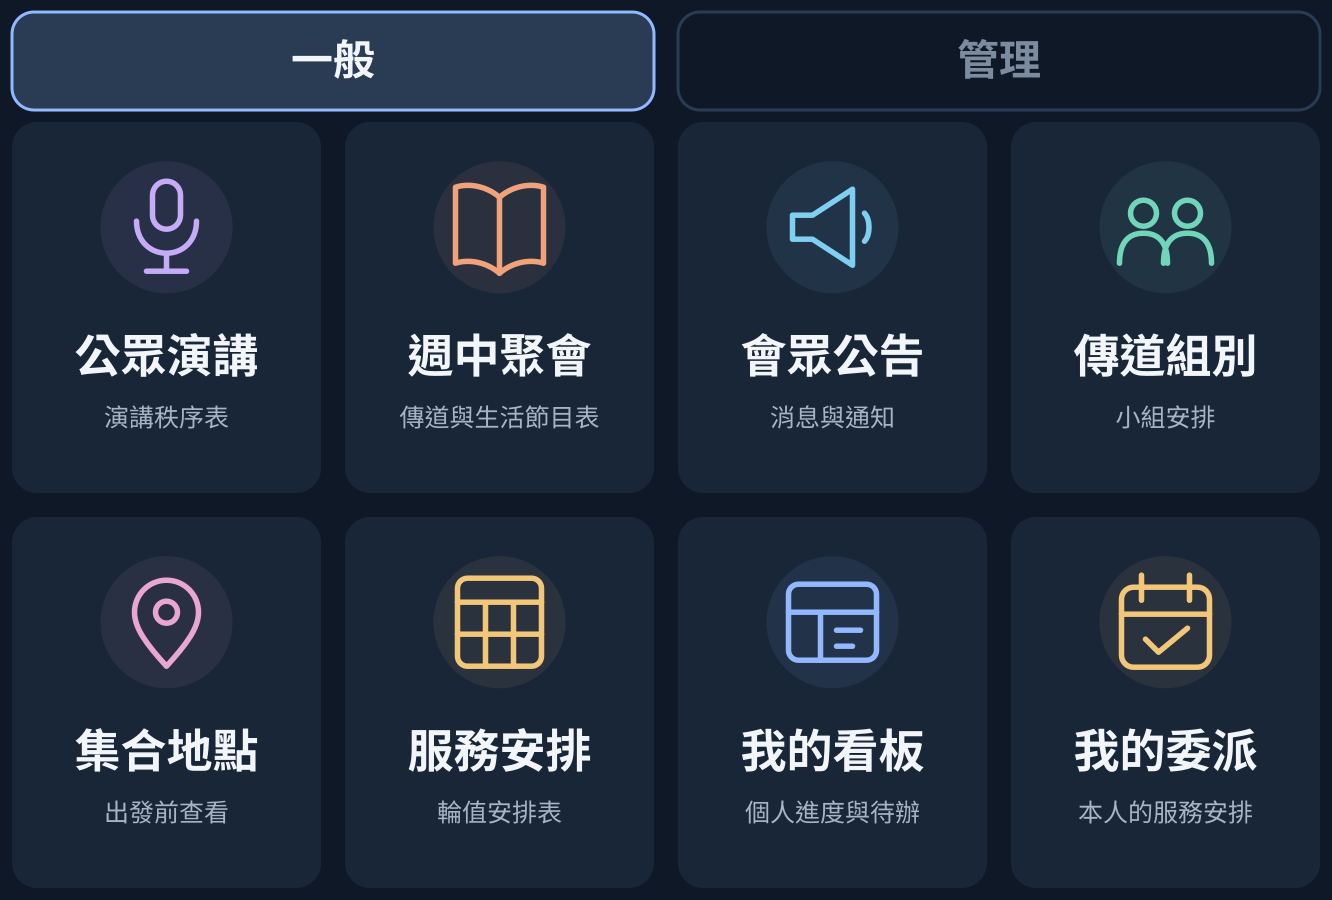
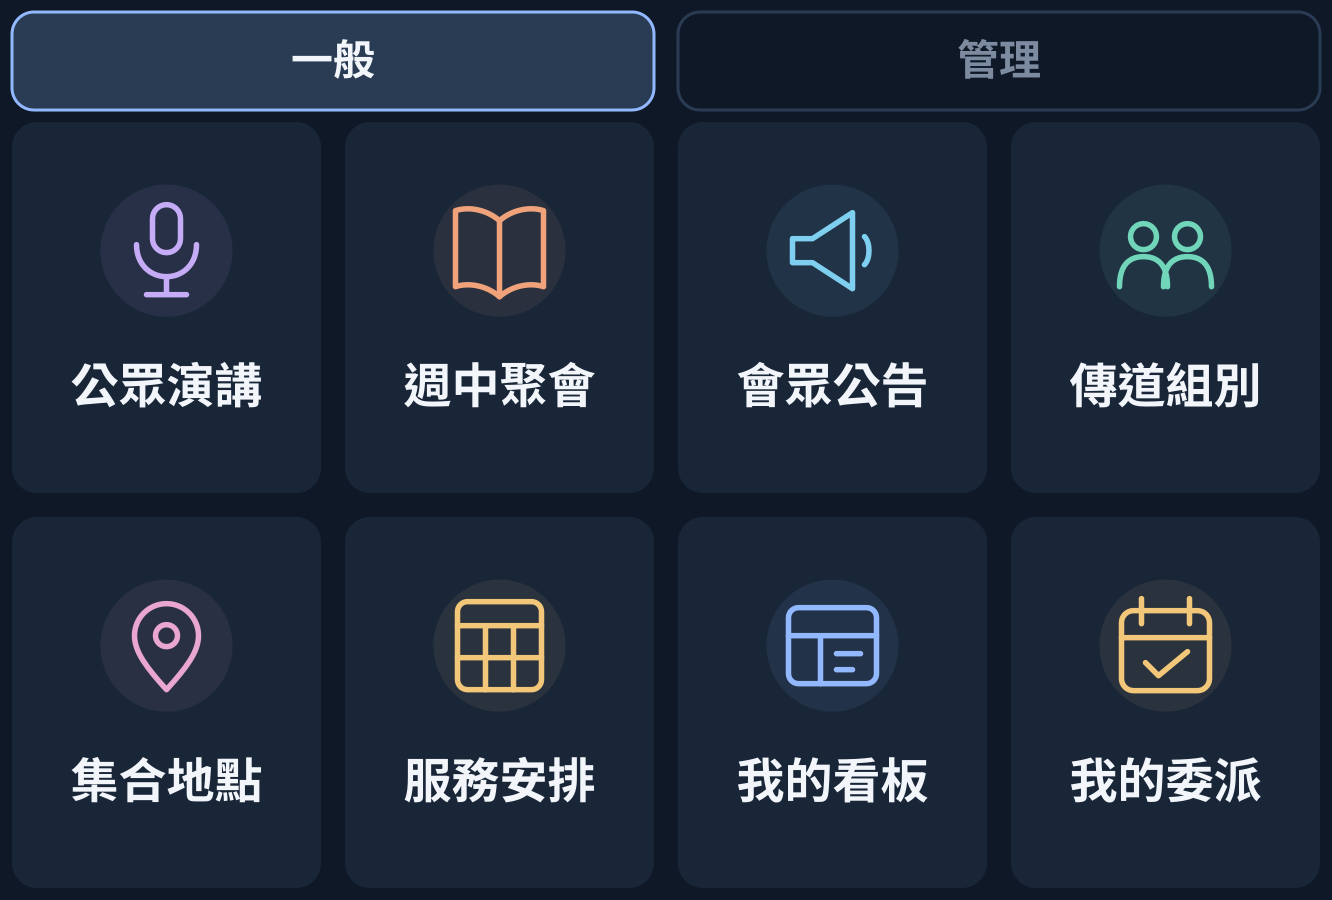
ui: LINE 圖文選單拿掉副標題，只留圖示與主標題，升 v12（ADR-0133）

diff --git a/src/lib/line-rich-menu.ts b/src/lib/line-rich-menu.ts
@@ -12,9 +12,9 @@ export type MenuKey = 'sister' | 'brother-general' | 'brother-manage' | 'admin-g
 export const menuKeys: MenuKey[] = ['sister', 'brother-general', 'brother-manage', 'admin-general', 'admin-manage']
 const tabbedKeys = menuKeys.filter(key => key !== 'sister') as Exclude<MenuKey, 'sister'>[]
 const liffId = configuredLiffId()
-const stateKey = (key: MenuKey) => liffId ? `line_rich_menu_v11_${key}_liff_${liffId}` : `line_rich_menu_v11_${key}`
+const stateKey = (key: MenuKey) => liffId ? `line_rich_menu_v12_${key}_liff_${liffId}` : `line_rich_menu_v12_${key}`
 // Alias ids are per channel: [a-z0-9_-], at most 32 characters.
-export const aliasId = (key: MenuKey) => `cms-v11-${key}`
+export const aliasId = (key: MenuKey) => `cms-v12-${key}`
 const menuUrl = (view: string) => liffId ? `https://liff.line.me/${liffId}/?view=${view}` : `${botSite}${liffDestination(view)}`
 const lockKey = 'line_rich_menu_publish_lock'
 const api = 'https://api.line.me/v2/bot'
@@ -46,7 +46,7 @@ function definition(key: MenuKey) {
   })) : []
   return {
     size: { width, height }, selected: true,
-    name: `楠梓會眾${label}選單 v11`, chatBarText: '開啟功能選單',
+    name: `楠梓會眾${label}選單 v12`, chatBarText: '開啟功能選單',
     areas: [...tabAreas, ...rows.flatMap((keys, row) => {
       const cell = Math.floor(width / keys.length), y = top + row * rowH
       return keys.map((name, i) => ({

diff --git a/CONTEXT.md b/CONTEXT.md
@@ -1,5 +1,6 @@
 # 地圖分配系統 — 領域詞彙表
 
+- 2026-11-15：使用者要求 LINE 圖文選單圖片不要有副標題。各頁每格只留圖示與主標題。選單升 v12 需重新發布。詳見 ADR-0133。
 - 2026-11-15：使用者要求週中編排頁可以列印。頁首加「列印」按鈕，選要印的週（預設目前顯示的那週，可多選），一週一張 A4，只印公布欄上的節目表（未發布的週印草稿），不印側欄與編輯控制；取消的週印「本週無聚會：原因」。詳見 ADR-0132。
 - 2026-11-15：使用者要求週中聚會取消時，編排介面可以一鍵處理並標注原因。每週卡片加「本週取消聚會」：選大會、分區監督探訪、紀念聚會、特別活動或自填原因，直接發布；公布欄與嵌入頁顯示「本週無聚會：原因」，週次選單標「（無聚會）」。節目與人員保留不刪，按「恢復聚會」再發布即回復。我的委派跳過該週；先前發過學生通知單的人在通知單名單上列為取消。詳見 ADR-0131。
 

diff --git a/docs/adr/0133-line-menu-no-subtitle.md b/docs/adr/0133-line-menu-no-subtitle.md
@@ -1,0 +1,12 @@
+# ADR-0133：LINE 圖文選單拿掉副標題
+
+2026-11-15，已接受。
+
+## 背景
+
+使用者表示選單圖片不要有副標題。
+
+## 決策
+
+- 所有選單頁（姊妹預設頁、弟兄一般／管理頁、管理者一般／管理頁）每格只留圖示與主標題，副標題全部移除；圖示與標題往下移、標題略放大，讓整格視覺置中。格子位置與動作不變。
+- 選單圖片改變，狀態鍵與 alias 升為 v12（`line_rich_menu_v12_*`、`cms-v12-*`），部署後需在「我的看板→管理工具→底部圖文選單」再按一次「發布至 LINE」。
